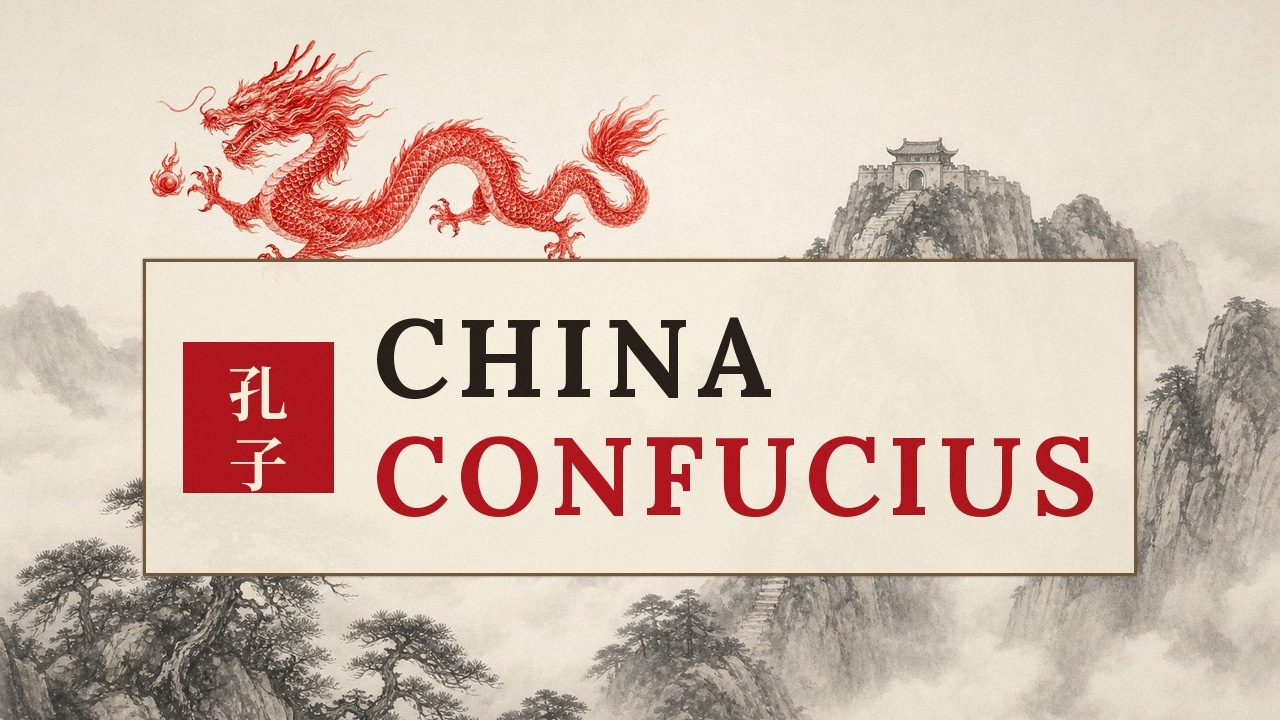
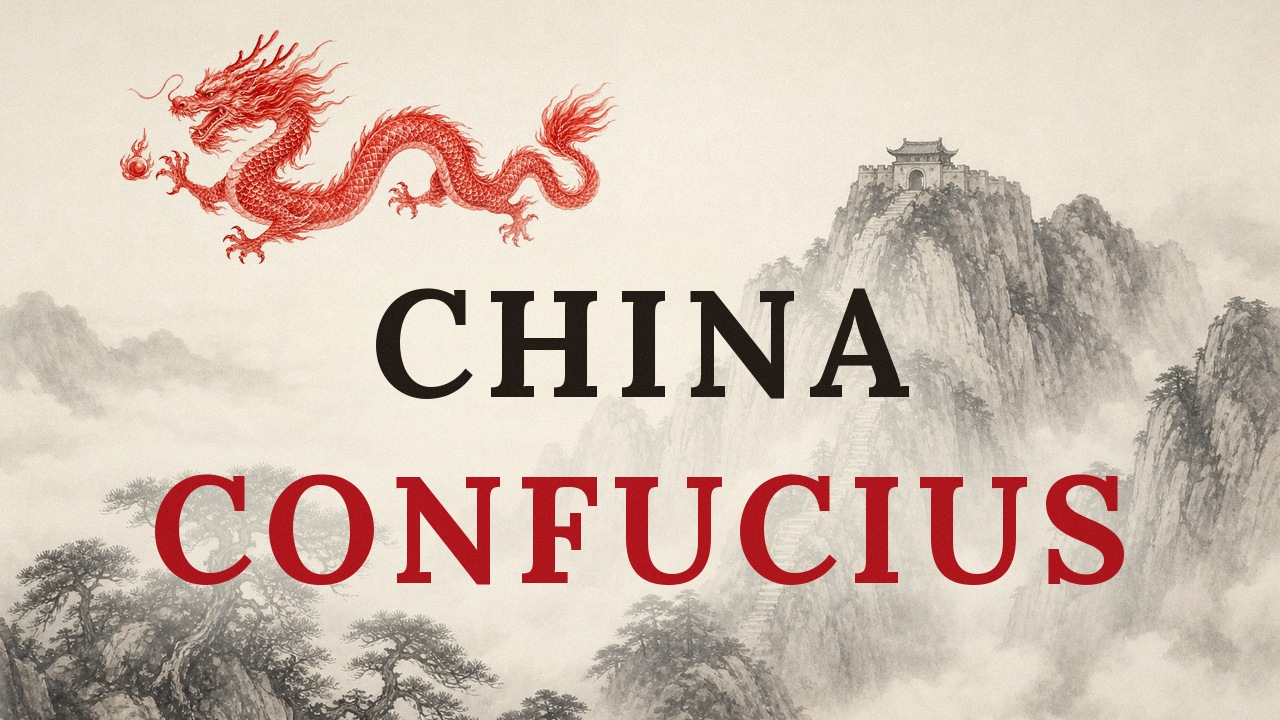
Ảnh bìa video: chỉ chữ trên tranh, font Playfair Display cho tiếng Việt
Claude-Session: https://claude.ai/code/session_011CHVvY2RSwUp2YFgPmmMwF

Changed region(s): [[0.0625, 0.0306, 0.9375, 0.9167]]

diff --git a/assets/channel/make_thumb.py b/assets/channel/make_thumb.py
@@ -5,7 +5,7 @@ import sys, argparse
 from PIL import Image, ImageDraw, ImageFont, ImageFilter, ImageChops
 import numpy as np
 ap = argparse.ArgumentParser(); [ap.add_argument(a) for a in ['F', 'bg', 'out', 'seal', 'title', 'sub', 'font']]
-ap.add_argument('--sun'); ap.add_argument('--red'); ap.add_argument('--crop_y', type=float, default=0.5)
+ap.add_argument('--sun'); ap.add_argument('--red'); ap.add_argument('--crop_y', type=float, default=0.5); ap.add_argument('--box', type=int, default=0)
 A = ap.parse_args(); W, H = 1280, 720
 bg = Image.open(A.bg).convert('RGB'); bg = bg.resize((W, int(bg.height * W / bg.width)), Image.LANCZOS)
 oy = int((bg.height - H) * A.crop_y); img = bg.crop((0, oy, W, oy + H))
@@ -24,30 +24,45 @@ fs = ImageFont.truetype(f'{A.F}/NotoSerifSC700.ttf', 64 if len(A.seal) == 1 else
 def wsp(t, f, sp): return sum(d.textlength(c, font=f) for c in t) + sp * (len(t) - 1)
 def dsp(x, y, t, f, sp, fill):
     for c in t: d.text((x, y), c, font=f, fill=fill); x += d.textlength(c, font=f) + sp
-seal = 150; pad = 40; gap = 40
-lines = A.title.split('|'); sub = A.sub.strip()
-for size in range(110, 40, -2):   # tự co chữ cho dải giấy vừa khung (chừa 50 px mỗi bên)
-    ft = ImageFont.truetype(f'{A.F}/{A.font}', size)
-    tw = max([wsp(l, ft, 8) for l in lines] + ([wsp(sub, fsub, 6)] if sub else []))
-    if pad + seal + gap + tw + pad <= W - 100: break
-lh = int(size * 1.08); th = lh * len(lines) + (50 if sub else 0)
-sh = max(seal + 2 * pad, th + 2 * pad); sw = pad + seal + gap + tw + pad
-x0 = int((W - sw) / 2); y0 = int(H * 0.58 - sh / 2); x1, y1 = x0 + int(sw), y0 + sh
-strip = Image.new('RGBA', (W, H), (0, 0, 0, 0)); ImageDraw.Draw(strip).rectangle((x0, y0, x1, y1), fill=(246, 238, 220, 242))
-img = Image.alpha_composite(img, strip.filter(ImageFilter.GaussianBlur(1))); d = ImageDraw.Draw(img)
-d.rectangle((x0, y0, x1, y1), outline=(120, 90, 60, 255), width=3)
-sx, sy = x0 + pad, y0 + (sh - seal) // 2; d.rectangle((sx, sy, sx + seal, sy + seal), fill=(178, 22, 30, 255))
-fs = ImageFont.truetype(f'{A.F}/NotoSerifSC700.ttf', 84 if len(A.seal) == 1 else 60)
-if len(A.seal) == 1:
-    w = d.textlength(A.seal, font=fs); d.text((sx + (seal - w) / 2, sy + 22), A.seal, font=fs, fill=(251, 241, 220, 255))
+if not A.box:   # chỉ có chữ, đặt thẳng lên tranh, có quầng giấy sáng mờ phía sau cho dễ đọc
+    lines = A.title.split('|')
+    for size in range(150, 40, -2):
+        ft = ImageFont.truetype(f'{A.F}/{A.font}', size)
+        if max(wsp(l, ft, 10) for l in lines) <= W - 160: break
+    lh = int(size * 1.24); th = lh * len(lines); ty = int(H * 0.60 - th / 2)
+    glow = Image.new('L', (W, H), 0); gd = ImageDraw.Draw(glow)
+    for i, l in enumerate(lines):
+        w = wsp(l, ft, 10); gd.rectangle(((W - w) / 2 - 30, ty + i * lh, (W + w) / 2 + 30, ty + i * lh + lh), fill=200)
+    glow = glow.filter(ImageFilter.GaussianBlur(40))
+    img = Image.composite(Image.new('RGBA', (W, H), (246, 240, 226, 255)), img, glow); d = ImageDraw.Draw(img)
+    for i, l in enumerate(lines):
+        w = wsp(l, ft, 10); col = (178, 22, 30, 255) if i == len(lines) - 1 and len(lines) > 1 else (36, 28, 22, 255)
+        dsp((W - w) / 2, ty + i * lh, l, ft, 10, col)
 else:
-    for i, c in enumerate(A.seal[:2]):
-        w = d.textlength(c, font=fs); d.text((sx + (seal - w) / 2, sy + 4 + i * 70), c, font=fs, fill=(251, 241, 220, 255))
-tx = sx + seal + gap; ty = y0 + (sh - th) // 2 - int(size * 0.12)
-for i, l in enumerate(lines):
-    dsp(tx, ty + i * lh, l, ft, 8, (178, 22, 30, 255) if i == len(lines) - 1 and len(lines) > 1 else (40, 32, 26, 255))
-if sub:
-    dsp(tx + 2, ty + lh * len(lines) + 8, sub, fsub, 6, (107, 18, 22, 255))
+    seal = 150; pad = 40; gap = 40
+    lines = A.title.split('|'); sub = A.sub.strip()
+    for size in range(110, 40, -2):   # tự co chữ cho dải giấy vừa khung (chừa 50 px mỗi bên)
+        ft = ImageFont.truetype(f'{A.F}/{A.font}', size)
+        tw = max([wsp(l, ft, 8) for l in lines] + ([wsp(sub, fsub, 6)] if sub else []))
+        if pad + seal + gap + tw + pad <= W - 100: break
+    lh = int(size * 1.08); th = lh * len(lines) + (50 if sub else 0)
+    sh = max(seal + 2 * pad, th + 2 * pad); sw = pad + seal + gap + tw + pad
+    x0 = int((W - sw) / 2); y0 = int(H * 0.58 - sh / 2); x1, y1 = x0 + int(sw), y0 + sh
+    strip = Image.new('RGBA', (W, H), (0, 0, 0, 0)); ImageDraw.Draw(strip).rectangle((x0, y0, x1, y1), fill=(246, 238, 220, 242))
+    img = Image.alpha_composite(img, strip.filter(ImageFilter.GaussianBlur(1))); d = ImageDraw.Draw(img)
+    d.rectangle((x0, y0, x1, y1), outline=(120, 90, 60, 255), width=3)
+    sx, sy = x0 + pad, y0 + (sh - seal) // 2; d.rectangle((sx, sy, sx + seal, sy + seal), fill=(178, 22, 30, 255))
+    fs = ImageFont.truetype(f'{A.F}/NotoSerifSC700.ttf', 84 if len(A.seal) == 1 else 60)
+    if len(A.seal) == 1:
+        w = d.textlength(A.seal, font=fs); d.text((sx + (seal - w) / 2, sy + 22), A.seal, font=fs, fill=(251, 241, 220, 255))
+    else:
+        for i, c in enumerate(A.seal[:2]):
+            w = d.textlength(c, font=fs); d.text((sx + (seal - w) / 2, sy + 4 + i * 70), c, font=fs, fill=(251, 241, 220, 255))
+    tx = sx + seal + gap; ty = y0 + (sh - th) // 2 - int(size * 0.12)
+    for i, l in enumerate(lines):
+        dsp(tx, ty + i * lh, l, ft, 8, (178, 22, 30, 255) if i == len(lines) - 1 and len(lines) > 1 else (40, 32, 26, 255))
+    if sub:
+        dsp(tx + 2, ty + lh * len(lines) + 8, sub, fsub, 6, (107, 18, 22, 255))
 img = img.convert('RGB'); arr = np.asarray(img).astype(np.float32); yy, xx = np.mgrid[0:H, 0:W]
 v = np.clip(1 - 0.25 * (((xx - W / 2) / (W * .6)) ** 2 + ((yy - H / 2) / (H * .6)) ** 2), 0, 1)[..., None]
 arr = arr * (0.8 + 0.2 * v) + np.random.default_rng(1).normal(0, 2.5, arr.shape[:2] + (1,))
